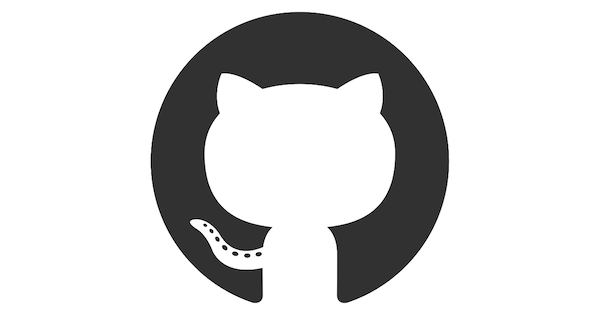
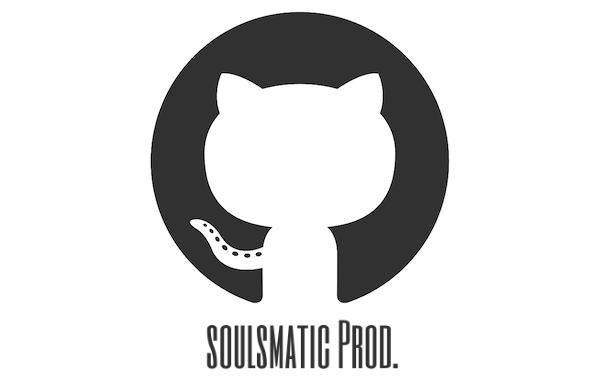
regular update

Changed region(s): [[0.24, 0.0286, 0.75, 0.9714]]

diff --git a/index.html b/index.html
@@ -3,7 +3,7 @@
 
 <head>
     <meta charset = "UTF-8">
-    <title>SA2 - Tweets Knowledge Base - Analysis of Tweets activity in Victoria</title>
+    <title>Soulsmatic Productions</title>
 </head>
 
 <link href='ext_js/bootstrap.css' rel='stylesheet' />
